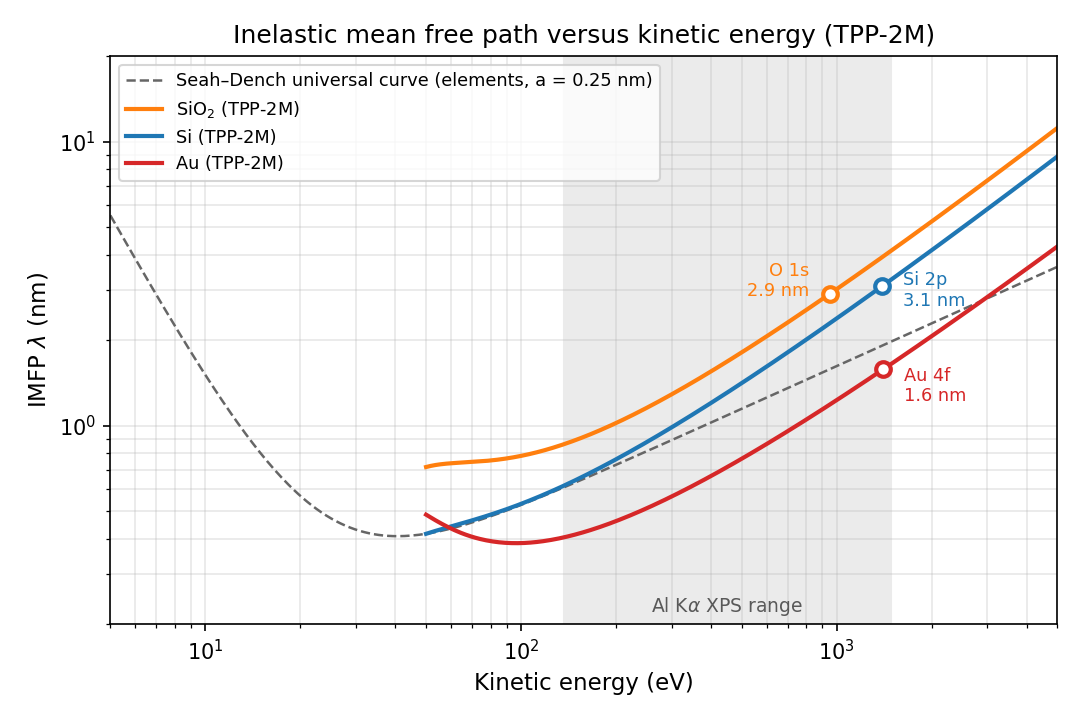
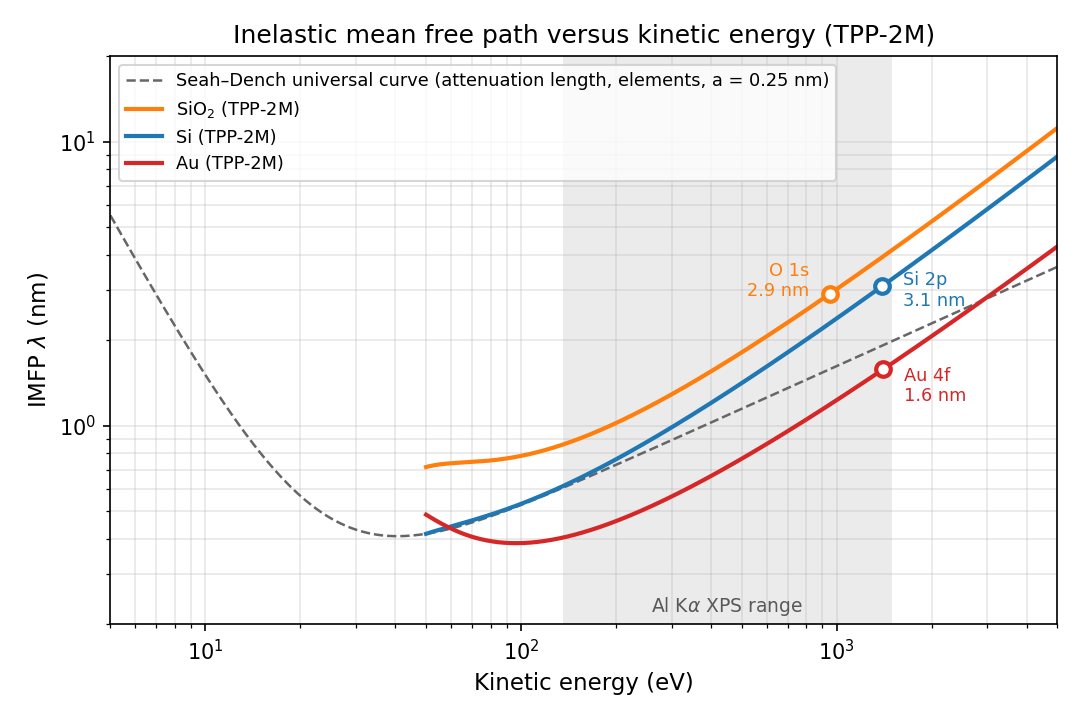
fix(post): xps-surface-sensitivity-imfp — Seah–Dench 커브를 감쇠길이로 바로잡고 Strohmeier 식의 각을 θ′로
- Seah–Dench 유니버설 커브: 3절이 1970년대 측정값을 IMFP의 에너지 의존성으로
  소개하고 E를 운동에너지로 적었다. 이 측정들은 탄성 산란을 무시한 오버레이어
  실험이라 모은 값은 IMFP가 아니라 감쇠길이(EAL)다. Powell 2020 IV절(023209-6~7)이
  당시 값을 "what are now known as EALs"라 하고, Powell & Jablonski 1999
  (J. Phys. Chem. Ref. Data 28, 19, pp.29–31)가 Seah–Dench 식을 예측용 EAL 식으로
  분류하며 정성적 지침으로만 쓰라고 권고한다. E의 정의는 Seah & Dench 1979 초록의
  "electron energy above the Fermi level"로 고쳤다. 본문에 EAL이라는 단서를 덧붙이고,
  최솟값을 nm로 환산하는 대목과 그림1 캡션을 고쳤다. 그림1 범례에도 "(감쇠길이)"를
  넣어 다시 그렸다(한·영).
- Strohmeier 식의 각: 글은 "θ는 항상 법선에서 잰 각"이라고 정해 두고서, Strohmeier
  식의 sinθ에서는 표면에서 잰 각으로 썼다. 같은 기호가 서로 여각인 두 뜻을 가졌다.
  5편이 같은 식에서 쓰는 표기(θ′, θ′ = 90° − θ)를 따라 식과 설명의 θ를 θ′로 바꿨다(한·영).

바뀐 그림: fig1-imfp-universal-curve.png 한·영 (범례 문구만, 그림2·3은 바이트 동일)

Changed region(s): [[0.3972, 0.0917, 0.7639, 0.2444]]

diff --git a/_code/xps-surface-sensitivity-imfp/generate_figures.py b/_code/xps-surface-sensitivity-imfp/generate_figures.py
@@ -29,7 +29,7 @@ LABELS = {
     "ko": {
         "dir": BASE_DIR, "font": KFONT, "legend": LFONT,
         "ke": "운동에너지 (eV)", "imfp": r"IMFP $\lambda$ (nm)",
-        "sd": "Seah–Dench 유니버설 커브 (원소, a = 0.25 nm)",
+        "sd": "Seah–Dench 유니버설 커브 (감쇠길이, 원소, a = 0.25 nm)",
         "alka": "Al K$\\alpha$ XPS 영역",
         "fig1": "운동에너지에 따른 비탄성 평균자유행로 (TPP-2M)",
         "depth": r"깊이 $z$ (nm)", "weight": "상대 기여 (단위 깊이당)",
@@ -45,7 +45,7 @@ LABELS = {
     "en": {
         "dir": os.path.join(BASE_DIR, "en"), "font": EFONT, "legend": ELFONT,
         "ke": "Kinetic energy (eV)", "imfp": r"IMFP $\lambda$ (nm)",
-        "sd": "Seah–Dench universal curve (elements, a = 0.25 nm)",
+        "sd": "Seah–Dench universal curve (attenuation length, elements, a = 0.25 nm)",
         "alka": "Al K$\\alpha$ XPS range",
         "fig1": "Inelastic mean free path versus kinetic energy (TPP-2M)",
         "depth": r"Depth $z$ (nm)", "weight": "Relative contribution (per unit depth)",

diff --git a/_posts/2026-10-12-xps-surface-sensitivity-imfp-en.md b/_posts/2026-10-12-xps-surface-sensitivity-imfp-en.md
@@ -54,14 +54,14 @@ Only the IMFP is a material property fixed by material and energy; the other thr
 
 ## 3. The Universal Curve — How λ Depends on Kinetic Energy
 
-Which peak is more surface sensitive? $\lambda$ varies with material, but it varies even more with the electron's kinetic energy. When the values measured on many materials in the 1970s are plotted against kinetic energy, most of them fall on a similar V-shaped curve, known as the universal curve. Seah and Dench (1979) condensed the curve for elements into a single empirical formula in units of monolayers.
+Which peak is more surface sensitive? $\lambda$ varies with material, but it varies even more with the electron's kinetic energy. When attenuation lengths measured on many materials by the overlayer method in the late 1960s and 1970s are plotted against kinetic energy, most of them fall on a similar V-shaped curve, known as the universal curve. Seah and Dench (1979) condensed the curve for elements into a single empirical formula in units of monolayers. Those measurements assumed exponential attenuation with no elastic scattering, so strictly the compiled values are not IMFPs but what Section 2 called EALs. Today the formula serves only as a qualitative guide.
 
 $$ \lambda_m = \frac{538}{E^2} + 0.41\,(aE)^{1/2} $$
 
-$E$ is the kinetic energy in eV, $a$ the monolayer thickness in nm, and $\lambda_m$ the number of monolayers. The first term describes the drop in scattering at low energy, where the electron has too little energy to excite valence electrons. The second describes high energies, where a faster electron spends less time interacting. With $a = 0.25$ nm the minimum is 0.41 nm at about 41 eV. Electrons of a few tens of eV are the most surface sensitive.
+$E$ is the electron energy above the Fermi level in eV, $a$ the monolayer thickness in nm, and $\lambda_m$ the number of monolayers. The first term describes the drop in scattering at low energy, where the electron has too little energy to excite valence electrons. The second describes high energies, where a faster electron spends less time interacting. With $a = 0.25$ nm, converted to nanometers ($a\lambda_m$), the minimum is 0.41 nm at about 41 eV. Electrons of a few tens of eV are the most surface sensitive.
 
 <img src="/assets/img/posts/xps-surface-sensitivity-imfp/en/fig1-imfp-universal-curve.png" alt="TPP-2M IMFPs for Si, SiO2 and Au with the Seah–Dench universal curve and representative Al Kα peaks" width="640">
-_Figure 1. IMFP versus kinetic energy. Solid lines: the TPP-2M predictive formula (valid above 50 eV). Dashed line: the Seah–Dench empirical formula. Circles mark Si 2p (Si), O 1s (SiO₂) and Au 4f (Au) photoelectrons excited by Al K$\alpha$._
+_Figure 1. IMFP versus kinetic energy. Solid lines: the TPP-2M predictive formula (valid above 50 eV). Dashed line: the Seah–Dench empirical formula (fitted to measured attenuation lengths, so it includes elastic-scattering effects). Circles mark Si 2p (Si), O 1s (SiO₂) and Au 4f (Au) photoelectrons excited by Al K$\alpha$._
 
 The values used in practice today are calculated, not empirical. Tanuma, Powell and Penn calculated IMFPs from energy-loss functions derived from optical constants, and built a predictive formula that reproduces the results from four material parameters: the number of valence electrons, density, molecular weight and band gap. This is TPP-2M. The solid lines in Figure 1 were computed directly from it.
 
@@ -114,9 +114,9 @@ This is also where a common practical mistake needs pointing out. The literature
 
 A typical example is the Strohmeier equation, widely used to compute oxide thickness.
 
-$$ d = \lambda_{ox}\sin\theta\,\ln\!\left(\frac{N_m\lambda_m I_{ox}}{N_{ox}\lambda_{ox} I_m} + 1\right) $$
+$$ d = \lambda_{ox}\sin\theta'\,\ln\!\left(\frac{N_m\lambda_m I_{ox}}{N_{ox}\lambda_{ox} I_m} + 1\right) $$
 
-$N$ is the volume density of metal atoms, and $I$ the peak areas of the oxide and metal components. For this equation to express the same physics as the normal-referenced $\cos\theta$ form, $\theta$ must be measured from the surface, so that at normal emission $\sin 90° = 1$ and $\lambda_{ox}$ remains unchanged. Yet many popular practical resources that present this equation simply call $\theta$ the "take-off angle" without saying which plane it is measured from. On an instrument whose angle is not 45° from the normal, plugging that angle directly into the equation gives the wrong thickness. For an analyzer tilted 30° from the normal, the correct value is $\sin 60°$ = 0.87; using $\sin 30°$ = 0.5 instead gives a thickness 42% too small. Before borrowing an equation, check the reference plane of its angle.
+$N$ is the volume density of metal atoms, and $I$ the peak areas of the oxide and metal components. For this equation to express the same physics as the normal-referenced $\cos\theta$ form, $\theta'$ must be measured from the surface, i.e. $\theta' = 90° - \theta$, so that at normal emission $\sin 90° = 1$ and $\lambda_{ox}$ remains unchanged. Yet many popular practical resources that present this equation simply call $\theta'$ the "take-off angle" without saying which plane it is measured from. On an instrument whose angle is not 45° from the normal, plugging that angle directly into the equation gives the wrong thickness. For an analyzer tilted 30° from the normal, the correct value is $\sin 60°$ = 0.87; using $\sin 30°$ = 0.5 instead gives a thickness 42% too small. Before borrowing an equation, check the reference plane of its angle.
 
 ## 6. The Price of Surface Sensitivity
 
